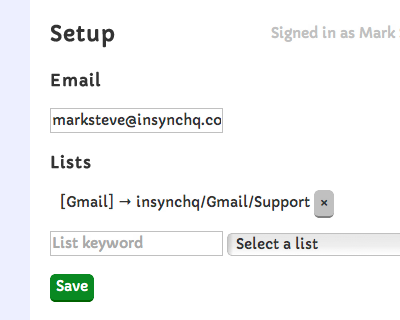
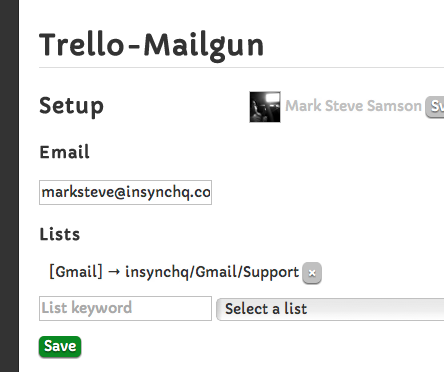
Updated screenshots

diff --git a/templates/index.html b/templates/index.html
@@ -3,7 +3,7 @@
 <p>
     <a href="https://trello.com" target="_blank">Trello</a> cards thru email using <a href="https://mailgun.com" target="_blank">Mailgun</a> mailboxes.
 </p>
-<p><img src="/static/images/three.png"></p>
+<p><img src="/static/images/screenshot.png"></p>
 <ol id="steps">
 <li>
     <p><a href="{{ url_for('setup') }}">Setup</a> your email and lists. You need to set the email yourself since Trello doesn't give out that information.</p>
